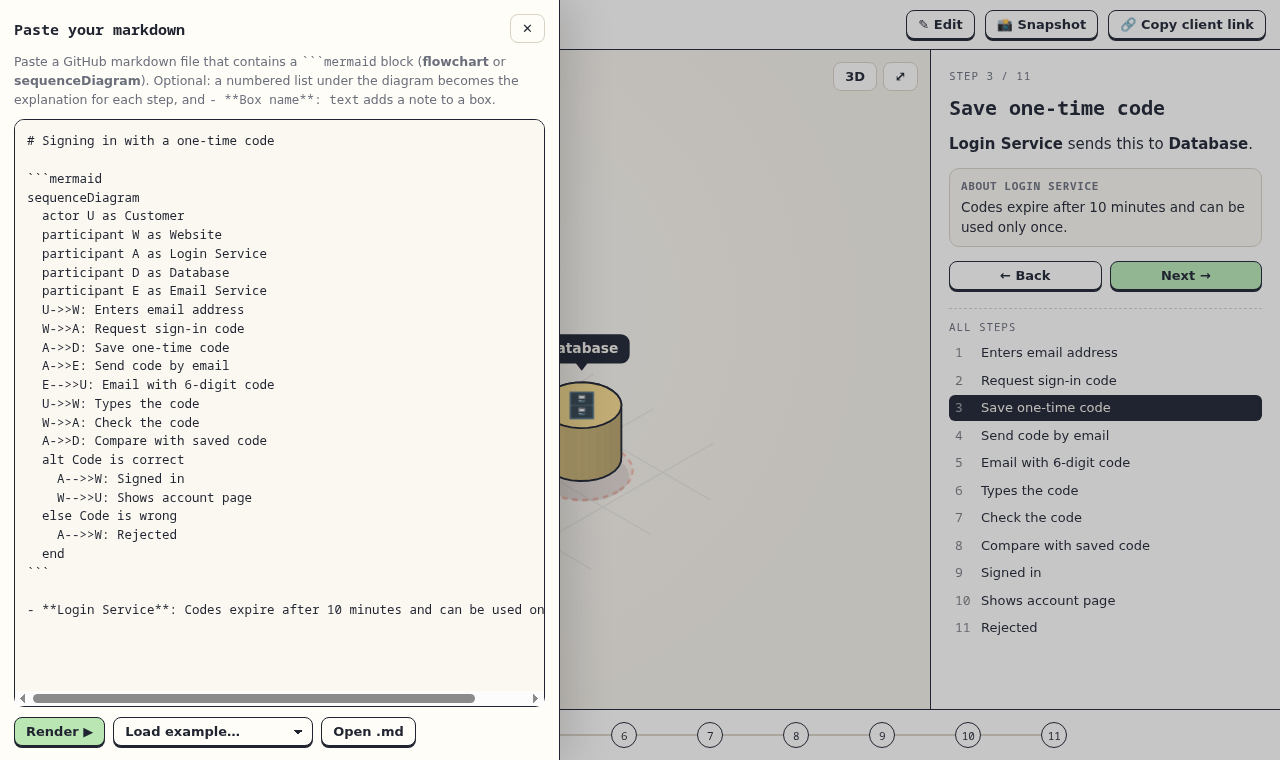
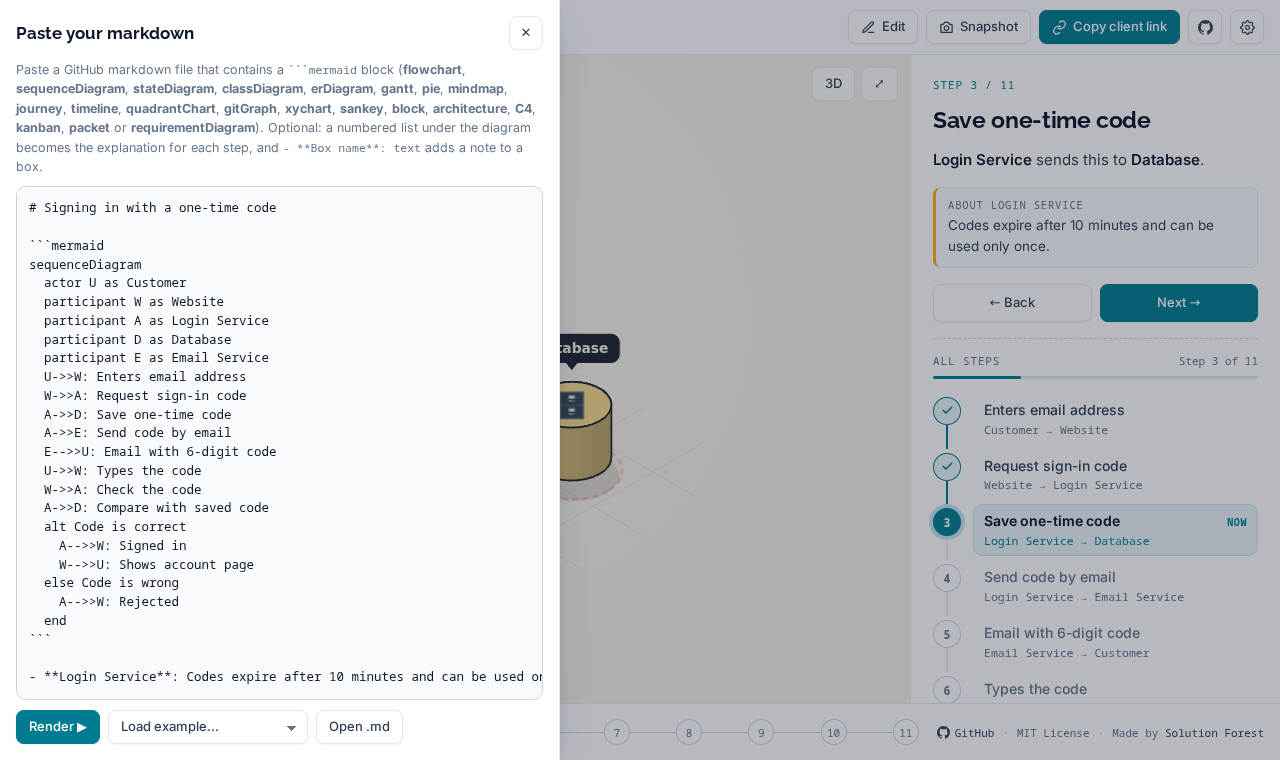
docs: add cover image and new screenshots to README

diff --git a/README.md b/README.md
@@ -1,5 +1,9 @@
 # Flow Explainer
 
+![Flow Explainer: paste a GitHub markdown diagram, get an animated step-by-step walkthrough you can send to a client](docs/images/cover.png)
+
+[![MIT License](https://img.shields.io/badge/license-MIT-007c90)](LICENSE) ![No build step](https://img.shields.io/badge/build-none-007c90) ![Mermaid](https://img.shields.io/badge/input-Mermaid-fcaf17) ![Three.js 0.187](https://img.shields.io/badge/three.js-0.187-0f172a)
+
 Paste a GitHub markdown diagram, get an animated step-by-step walkthrough you can send to a client.
 
 Built by [Solution Forest Limited](https://solutionforest.net/), a Hong Kong digital agency.
@@ -25,11 +29,11 @@ flowchart LR
 1. You paste a GitHub markdown file that contains a mermaid diagram.
 2. Pressing **Render** hands the text to the built-in reader. Nothing is uploaded.
 3. Every box becomes a block and every arrow becomes one step, played with the camera following along.
-4. **📸 Snapshot** checks for overlapping labels and saves a PNG for your README.
+4. **Snapshot** checks for overlapping labels and saves a PNG for your README.
 5. **Copy client link** packs the whole diagram into the link itself.
 6. Your client opens the link and presses **Play**: the same walkthrough, without the editing tools.
 
-The diagram above is GitHub's own Mermaid rendering. Here is the same markdown after going through Flow Explainer's **📸 Snapshot** button:
+The diagram above is GitHub's own Mermaid rendering. Here is the same markdown after going through Flow Explainer's **Snapshot** button:
 
 ![How Flow Explainer works, exported with the 2D Snapshot button](docs/images/how-it-works-2d.png)
 
@@ -38,15 +42,22 @@ The full source of that picture is [`examples/how-it-works.md`](examples/how-it-
 ## Quick start
 
 1. Open `index.html` (2D) or `3d.html` (3D) from any static file server — see [Run it yourself](#run-it-yourself).
-2. Press **✎ Edit**, paste your markdown (or press **Open .md**, or pick an example), then **Render ▶**.
+2. Press **Edit**, paste your markdown (or press **Open .md**, or pick an example), then **Render ▶**.
 3. Press **▶ Play**, or step with **Next / Back**, the ← → keys, or the numbered timeline at the bottom.
-4. Press **🔗 Copy client link** and send it. The link opens in view-only mode, without Edit or Snapshot.
+4. Press **Copy client link** and send it. The link opens in view-only mode, without Edit or Snapshot, and in the diagram style you picked.
+5. Open **⚙ Settings** (top right) to pick a diagram style or switch between 3D and 2D.
 
-| Step through a diagram (2D) | Paste your markdown |
+![3D player on step 3 of the ticket-order example, with the All steps list on the right](docs/images/player-desktop.png)
+
+| On a phone | Paste your markdown |
 |---|---|
-| ![2D player on step 3 of a sign-in sequence diagram](docs/images/player-2d.png) | ![Edit drawer with a sequence diagram pasted in](docs/images/edit-drawer.png) |
+| <img src="docs/images/player-mobile.png" alt="Phone layout: diagram on top, step panel below, timeline at the bottom" width="300"> | ![Edit drawer with a sequence diagram pasted in](docs/images/edit-drawer.png) |
 
-The **2D / 3D** button in the corner switches views and keeps the same diagram.
+| Settings: diagram style | Copy client link |
+|---|---|
+| ![Settings dropdown with the five diagram styles and the 3D / 2D switch](docs/images/settings-diagram-style.png) | ![Client link copied, with the not uploaded / not secret notice](docs/images/client-link-notice.png) |
+
+The **2D / 3D** button in the corner of the diagram (or **⚙ Settings → View**) switches views and keeps the same diagram. The layout adapts to phones and tablets: the step panel moves under the diagram and **All steps** folds up.
 
 ## Writing the markdown
 
@@ -164,9 +175,9 @@ Besides flowcharts and sequence diagrams, eighteen more Mermaid types are turned
 | `requirementDiagram`: all requirement kinds, `element`, the seven relationship types (forward and `<-` reverse) | ✅ (styles ignored) |
 | Other types (e.g. radar, treemap, zenuml) | ❌ shows "not supported yet" |
 
-## 📸 Snapshot: a README picture with an overlap check
+## Snapshot: a README picture with an overlap check
 
-When you write a README you want a picture of the diagram, and you want to be sure no label is hiding another one. **📸 Snapshot** (editing view only) does both.
+When you write a README you want a picture of the diagram, and you want to be sure no label is hiding another one. **Snapshot** (editing view only) does both.
 
 ```mermaid
 sequenceDiagram
@@ -216,6 +227,22 @@ Every image in this README was made this way. Here is the 3D export of the ticke
 
 If a browser has no WebGL, the 3D page opens the 2D page automatically.
 
+## Diagram styles
+
+Open **⚙ Settings** to change how the diagram looks. The same style is used in 2D and 3D, it is saved in your browser, and a client link opens with the style you picked.
+
+![The ticket-order example in the five diagram styles: Original, Teal, Line Art, Blueprint and Glass](docs/images/diagram-styles.png)
+
+| Style | Look |
+|---|---|
+| **Original** (default) | Pastel blocks on warm paper, orange-red highlight |
+| Teal | Pale teal blocks with teal outlines, amber highlight |
+| Line Art | White blocks with bold black outlines |
+| Blueprint | Dark background, cyan wireframe blocks |
+| Glass | See-through blocks |
+
+Each style is one entry in the `STYLES` list in `index.html` (background, block colours, outline, highlight, label colours, and the 3D material). To add a style, copy an entry, change the values, and run `python3 tools/sync-parser.py` so `3d.html` gets it too. The site itself always uses the Solution Forest colours; only the diagram changes.
+
 ## Run it yourself
 
 Any static file server works. The 3D page loads Three.js as an ES module, so open it over `http://`, not `file://`.
@@ -234,7 +261,9 @@ To host it, upload the folder to GitHub Pages, Cloudflare Pages, Netlify, S3 or 
 
 - Your markdown is kept in your browser's local storage (`flowx.md`) so it survives a reload.
 - A client link stores the diagram compressed inside the part of the address after `#`. Browsers never send that part to a server, so the host only sees a request for the page.
-- Anyone who has a client link can read the diagram, so treat it like the document itself.
+- Anyone who has a client link can read the diagram, so treat it like the document itself. The link is compressed, not encrypted. **Copy client link** shows this reminder every time.
+- Chat apps, email and browser history keep the full link wherever you paste it.
+- The page loads no fonts, scripts or trackers from other sites. Everything it needs is in this repository.
 
 ## Project layout
 
@@ -242,12 +271,13 @@ To host it, upload the folder to GitHub Pages, Cloudflare Pages, Netlify, S3 or 
 index.html          2D version (SVG, no dependencies)
 3d.html             3D version (Three.js)
 vendor/             Three.js 0.187.0 (three.module.js + three.core.js, MIT)
+                    Inter and Raleway web fonts (latin subset, SIL OFL 1.1, licences next to them)
 examples/           Sample markdown files, ready to paste
-tools/sync-parser.py  Copies the shared parser from index.html into 3d.html
+tools/sync-parser.py  Copies the shared parser and diagram styles from index.html into 3d.html
 docs/images/        Images used in this README
 ```
 
-Both pages share the same markdown reader, step panel, timeline and client-link code, copied into each file so each one stands alone. Edit the parser (everything between `/* ---------- markdown` and `/* ---------- layout`) in `index.html`, then run `python3 tools/sync-parser.py` to copy it into `3d.html`.
+Both pages share the same markdown reader, step panel, timeline, settings and client-link code, copied into each file so each one stands alone. Edit the parser (everything between `/* ---------- markdown` and `/* ---------- layout`) and the diagram styles block (`/* ---------- diagram styles + settings` … `end of diagram styles + settings`) in `index.html`, then run `python3 tools/sync-parser.py` to copy them into `3d.html`.
 
 ## Known limits
 
@@ -262,4 +292,4 @@ Flow Explainer is made by [Solution Forest Limited](https://solutionforest.net/)
 
 ## License
 
-[MIT](LICENSE) © Solution Forest Limited. Three.js is MIT-licensed by the three.js authors.
+[MIT](LICENSE) © Solution Forest Limited. Three.js is MIT-licensed by the three.js authors. Inter and Raleway are under the SIL Open Font License 1.1.
